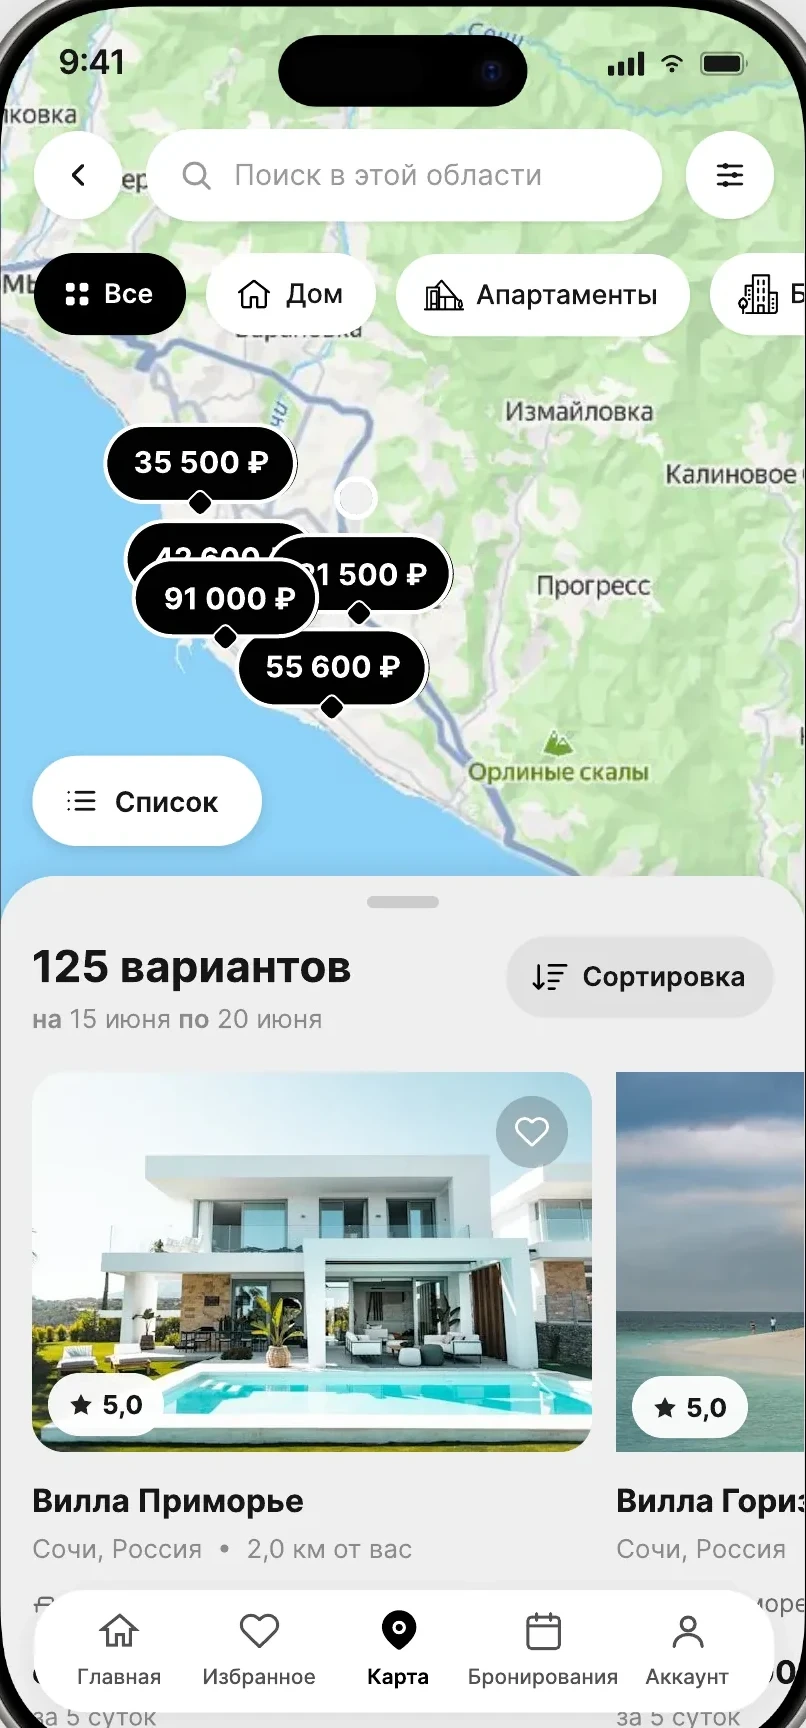
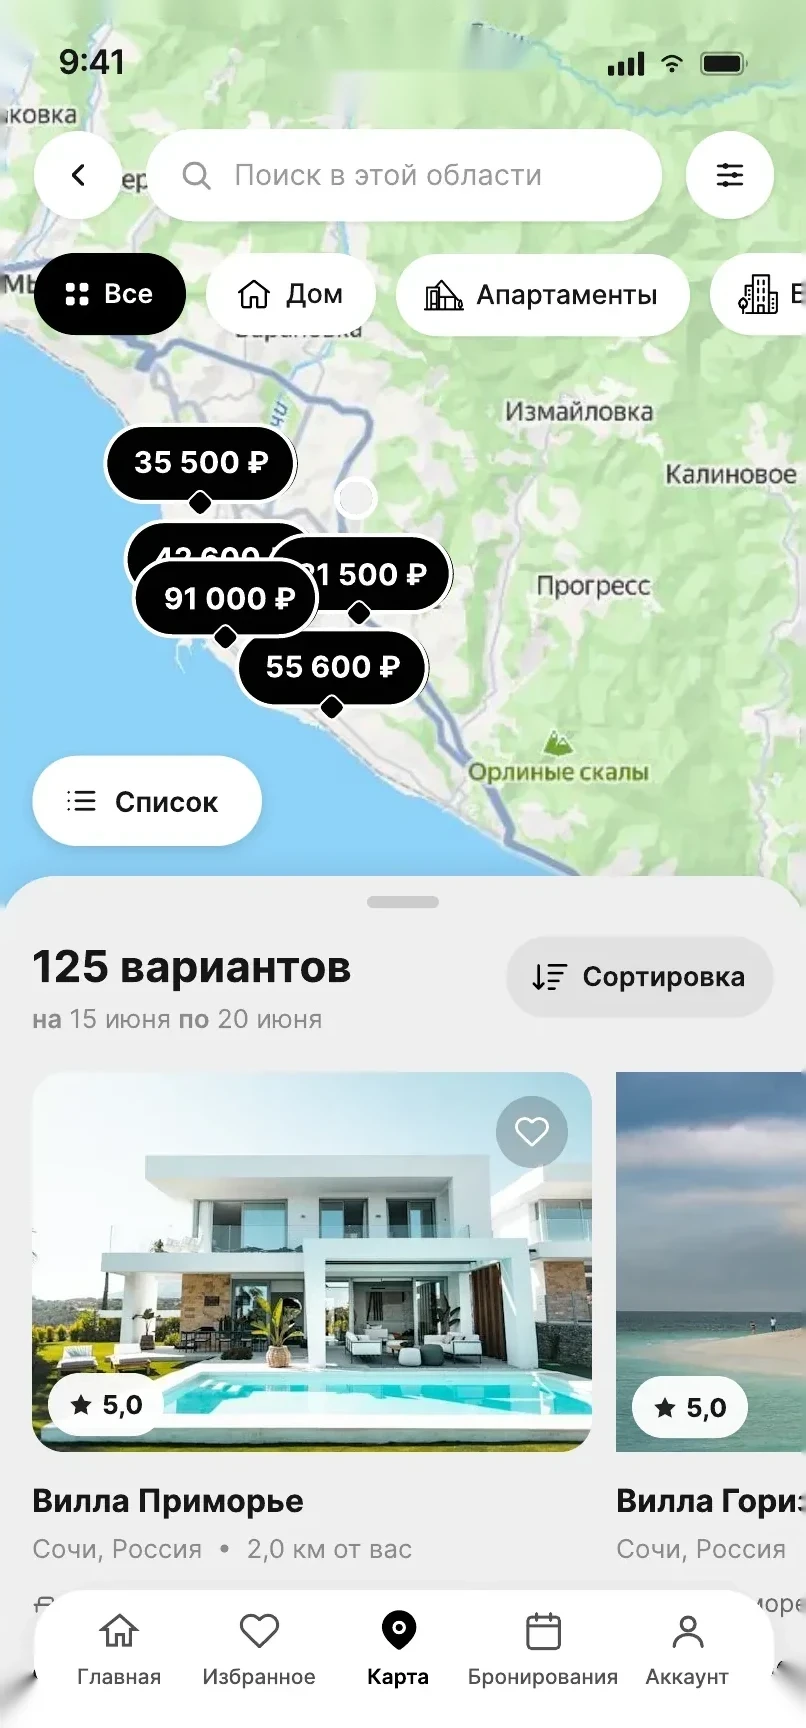
Без рамки телефона, без подчёркивания Telegram
Claude-Session: https://claude.ai/code/session_01F3YvQhaftnGhsj9cgHaCEe

Changed region(s): [[0.0, 0.0, 1.0, 1.0]]

diff --git a/index.html b/index.html
@@ -211,11 +211,10 @@ h2.title { font-family: var(--font-display); font-weight: 700; text-transform: u
 .phone .zoom-btn { aspect-ratio: 5 / 6; }
 .phone .zoom-btn img { object-fit: contain; padding: 16px 0; }
 .plate { position: relative; aspect-ratio: 5 / 6; border-radius: var(--r); background: var(--plate); border: 1px solid var(--glass-border); box-shadow: var(--shadow); display: grid; place-items: center; overflow: hidden; }
-.shell { position: relative; height: calc(100% - 32px); aspect-ratio: 806 / 1728; border: 7px solid #151716; border-radius: 44px; background: #000; overflow: hidden; box-shadow: 0 14px 34px rgba(0, 0, 0, 0.22); }
+.shell { position: relative; height: calc(100% - 32px); aspect-ratio: 806 / 1728; border-radius: 36px; background: #EEEEEE; overflow: hidden; box-shadow: 0 0 0 1px rgba(11, 12, 12, 0.08), 0 14px 34px rgba(0, 0, 0, 0.16); }
 .dev { height: 100%; overflow-y: auto; overflow-x: hidden; background: #EEEEEE; scrollbar-width: none; overscroll-behavior: contain; }
 .dev::-webkit-scrollbar { display: none; }
 .dev img { width: 100%; height: auto; display: block; }
-.isl { position: absolute; top: 2%; left: 34.6%; width: 31%; height: 4.2%; border-radius: 999px; background: #000; pointer-events: none; }
 .zb { position: absolute; top: 12px; right: 12px; z-index: 3; width: 38px; height: 38px; padding: 0; display: grid; place-items: center; border-radius: 50%; cursor: zoom-in; background: var(--ctrl-hover); border: 1px solid var(--glass-border); color: var(--ink); opacity: 0; transition: opacity 0.2s ease; -webkit-backdrop-filter: blur(12px); backdrop-filter: blur(12px); }
 .plate:hover .zb, .zb:focus-visible { opacity: 1; }
 @media (hover: none) { .zb { opacity: 0.9; } }
@@ -262,7 +261,7 @@ figcaption { margin-top: 10px; padding-inline: 8px; font-size: 14px; color: var(
 .mail button { background: transparent; border: 1px solid var(--line); border-radius: 999px; padding: 7px 18px; cursor: pointer; font-size: 14px; }
 .mail button:hover { background: var(--accent); color: var(--on-accent); border-color: var(--accent); }
 .tg { font-size: clamp(1.2rem, 2.4vw, 1.7rem); font-weight: 600; color: var(--accent); text-decoration: none; }
-.tg:hover { text-decoration: underline; text-underline-offset: 5px; }
+.tg:hover, .tg:focus, .tg:active { text-decoration: none; }
 @media (max-width: 860px) { .contacts { grid-template-columns: minmax(0, 1fr); } }
 footer { padding-block: 28px; display: flex; flex-wrap: wrap; justify-content: space-between; gap: 8px 24px; color: var(--mute); font-size: 14px; }
 
@@ -365,12 +364,12 @@ body { margin: 0; }
         </ul>
       </div>
       <div class="rail" aria-label="Экраны приложения">
-        <figure class="phone"><div class="plate"><div class="shell"><div class="dev long" tabindex="0" aria-label="Экран прокручивается"><img src="img/c1-02.webp" width="792" height="2588" loading="lazy" alt="Экран приложения: главная"></div><i class="isl"></i></div><button type="button" class="zoom-btn-bar zb" aria-label="Открыть крупнее" data-long="1" data-src="img/c1-02.webp" data-cap="Главная"><svg width="16" height="16" viewBox="0 0 16 16" aria-hidden="true"><path d="M9.5 2H14v4.5M6.5 14H2V9.5M14 2 9 7M2 14l5-5" fill="none" stroke="currentColor" stroke-width="1.6" stroke-linecap="round" stroke-linejoin="round"/></svg></button></div><figcaption>Главная · прокручивается</figcaption></figure>
+        <figure class="phone"><div class="plate"><div class="shell"><div class="dev long" tabindex="0" aria-label="Экран прокручивается"><img src="img/c1-02.webp" width="792" height="2588" loading="lazy" alt="Экран приложения: главная"></div></div><button type="button" class="zoom-btn-bar zb" aria-label="Открыть крупнее" data-long="1" data-src="img/c1-02.webp" data-cap="Главная"><svg width="16" height="16" viewBox="0 0 16 16" aria-hidden="true"><path d="M9.5 2H14v4.5M6.5 14H2V9.5M14 2 9 7M2 14l5-5" fill="none" stroke="currentColor" stroke-width="1.6" stroke-linecap="round" stroke-linejoin="round"/></svg></button></div><figcaption>Главная · прокручивается</figcaption></figure>
         <figure class="phone"><div class="plate"><div class="shell"><div class="dev"><img src="img/c1-03.webp" width="806" height="1728" loading="lazy" alt="Экран приложения: фильтры"></div></div><button type="button" class="zoom-btn-bar zb" aria-label="Открыть крупнее" data-src="img/c1-03.webp" data-cap="Фильтры"><svg width="16" height="16" viewBox="0 0 16 16" aria-hidden="true"><path d="M9.5 2H14v4.5M6.5 14H2V9.5M14 2 9 7M2 14l5-5" fill="none" stroke="currentColor" stroke-width="1.6" stroke-linecap="round" stroke-linejoin="round"/></svg></button></div><figcaption>Фильтры</figcaption></figure>
         <figure class="phone"><div class="plate"><div class="shell"><div class="dev"><img src="img/c1-04.webp" width="806" height="1728" loading="lazy" alt="Экран приложения: карта со списком вариантов"></div></div><button type="button" class="zoom-btn-bar zb" aria-label="Открыть крупнее" data-src="img/c1-04.webp" data-cap="Карта и список"><svg width="16" height="16" viewBox="0 0 16 16" aria-hidden="true"><path d="M9.5 2H14v4.5M6.5 14H2V9.5M14 2 9 7M2 14l5-5" fill="none" stroke="currentColor" stroke-width="1.6" stroke-linecap="round" stroke-linejoin="round"/></svg></button></div><figcaption>Карта и список</figcaption></figure>
-        <figure class="phone"><div class="plate"><div class="shell"><div class="dev long" tabindex="0" aria-label="Экран прокручивается"><img src="img/c1-06.webp" width="792" height="2264" loading="lazy" alt="Экран приложения: карточка объекта"></div><i class="isl"></i></div><button type="button" class="zoom-btn-bar zb" aria-label="Открыть крупнее" data-long="1" data-src="img/c1-06.webp" data-cap="Карточка объекта"><svg width="16" height="16" viewBox="0 0 16 16" aria-hidden="true"><path d="M9.5 2H14v4.5M6.5 14H2V9.5M14 2 9 7M2 14l5-5" fill="none" stroke="currentColor" stroke-width="1.6" stroke-linecap="round" stroke-linejoin="round"/></svg></button></div><figcaption>Карточка объекта · прокручивается</figcaption></figure>
-        <figure class="phone"><div class="plate"><div class="shell"><div class="dev long" tabindex="0" aria-label="Экран прокручивается"><img src="img/c1-08.webp" width="792" height="2512" loading="lazy" alt="Экран приложения: выбор дат и оплата"></div><i class="isl"></i></div><button type="button" class="zoom-btn-bar zb" aria-label="Открыть крупнее" data-long="1" data-src="img/c1-08.webp" data-cap="Даты и оплата"><svg width="16" height="16" viewBox="0 0 16 16" aria-hidden="true"><path d="M9.5 2H14v4.5M6.5 14H2V9.5M14 2 9 7M2 14l5-5" fill="none" stroke="currentColor" stroke-width="1.6" stroke-linecap="round" stroke-linejoin="round"/></svg></button></div><figcaption>Даты и оплата · прокручивается</figcaption></figure>
-        <figure class="phone"><div class="plate"><div class="shell"><div class="dev long" tabindex="0" aria-label="Экран прокручивается"><img src="img/c1-09.webp" width="792" height="2886" loading="lazy" alt="Экран приложения: аккаунт"></div><i class="isl"></i></div><button type="button" class="zoom-btn-bar zb" aria-label="Открыть крупнее" data-long="1" data-src="img/c1-09.webp" data-cap="Аккаунт"><svg width="16" height="16" viewBox="0 0 16 16" aria-hidden="true"><path d="M9.5 2H14v4.5M6.5 14H2V9.5M14 2 9 7M2 14l5-5" fill="none" stroke="currentColor" stroke-width="1.6" stroke-linecap="round" stroke-linejoin="round"/></svg></button></div><figcaption>Аккаунт · прокручивается</figcaption></figure>
+        <figure class="phone"><div class="plate"><div class="shell"><div class="dev long" tabindex="0" aria-label="Экран прокручивается"><img src="img/c1-06.webp" width="792" height="2264" loading="lazy" alt="Экран приложения: карточка объекта"></div></div><button type="button" class="zoom-btn-bar zb" aria-label="Открыть крупнее" data-long="1" data-src="img/c1-06.webp" data-cap="Карточка объекта"><svg width="16" height="16" viewBox="0 0 16 16" aria-hidden="true"><path d="M9.5 2H14v4.5M6.5 14H2V9.5M14 2 9 7M2 14l5-5" fill="none" stroke="currentColor" stroke-width="1.6" stroke-linecap="round" stroke-linejoin="round"/></svg></button></div><figcaption>Карточка объекта · прокручивается</figcaption></figure>
+        <figure class="phone"><div class="plate"><div class="shell"><div class="dev long" tabindex="0" aria-label="Экран прокручивается"><img src="img/c1-08.webp" width="792" height="2512" loading="lazy" alt="Экран приложения: выбор дат и оплата"></div></div><button type="button" class="zoom-btn-bar zb" aria-label="Открыть крупнее" data-long="1" data-src="img/c1-08.webp" data-cap="Даты и оплата"><svg width="16" height="16" viewBox="0 0 16 16" aria-hidden="true"><path d="M9.5 2H14v4.5M6.5 14H2V9.5M14 2 9 7M2 14l5-5" fill="none" stroke="currentColor" stroke-width="1.6" stroke-linecap="round" stroke-linejoin="round"/></svg></button></div><figcaption>Даты и оплата · прокручивается</figcaption></figure>
+        <figure class="phone"><div class="plate"><div class="shell"><div class="dev long" tabindex="0" aria-label="Экран прокручивается"><img src="img/c1-09.webp" width="792" height="2886" loading="lazy" alt="Экран приложения: аккаунт"></div></div><button type="button" class="zoom-btn-bar zb" aria-label="Открыть крупнее" data-long="1" data-src="img/c1-09.webp" data-cap="Аккаунт"><svg width="16" height="16" viewBox="0 0 16 16" aria-hidden="true"><path d="M9.5 2H14v4.5M6.5 14H2V9.5M14 2 9 7M2 14l5-5" fill="none" stroke="currentColor" stroke-width="1.6" stroke-linecap="round" stroke-linejoin="round"/></svg></button></div><figcaption>Аккаунт · прокручивается</figcaption></figure>
       </div>
     </div>
   </section>
